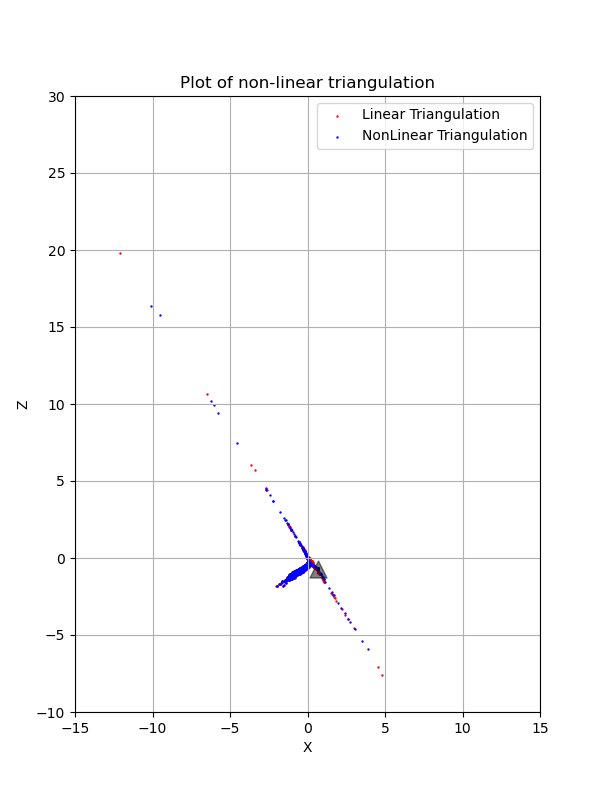
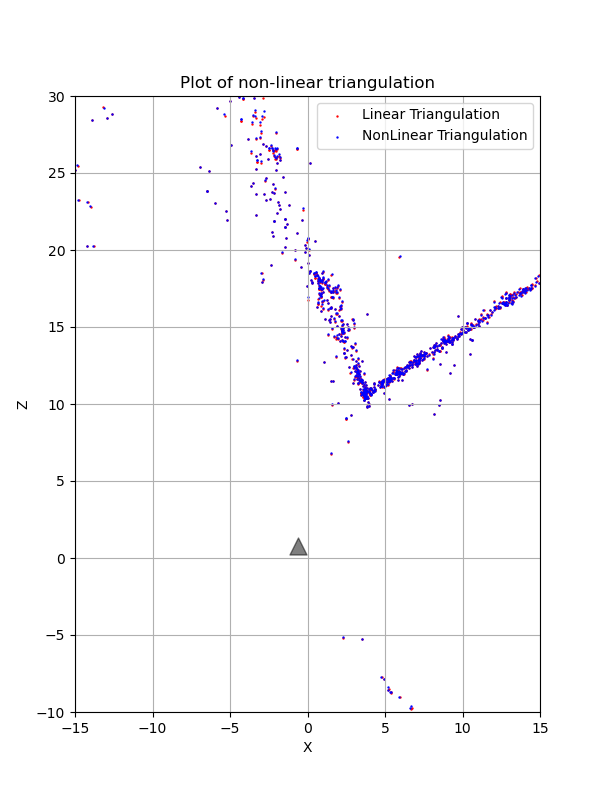
Update ParseData.py

diff --git a/Wrapper.py b/Wrapper.py
@@ -1,9 +1,11 @@
 import argparse
 import cv2
 import numpy as np
+from tqdm import tqdm
 
-from Utils.ParseData import ReadCalbMatrix, ParseMatches, LoadImages, FindCommonPoints
+from Utils.ParseData import ReadCalbMatrix, ParseMatches, LoadImages, LoadData, FindCommonPoints
 from Utils.GetInliersRANSAC import GetInliersRANSAC
+from Utils.EstimateFundamentalMatrix import ComputeFundamentalMatrix
 from Utils.EssentialMatrixFromFundamentalMatrix import EssentialMatrixFromFundamentalMatrix
 from Utils.ExtractCameraPose import ExtractCameraPose
 from Utils.DisambiguateCameraPose import DisambiguateCamPoseAndTriangulate
@@ -22,23 +24,53 @@ def main():
     Args = Parser.parse_args()
     DataPath = Args.DataPath
     CalibPath = Args.CalibPath
+    NumImages = 6
 
     # Read Calibration Matrix K, correspondences and images
     K = ReadCalbMatrix(CalibPath)
-    matches = ParseMatches(DataPath, NumImages=6)
-    Images = LoadImages(DataPath, NumImages=6)
+    Matches = ParseMatches(DataPath, NumImages=NumImages)
+    x_coords, y_coords, feature_indices = LoadData(DataPath, NumImages=NumImages)
+    Images = LoadImages(DataPath, NumImages=NumImages)
 
-    #################################
-    ##### Only for image 1 and 2 ####
-    #################################
+    ####### Rejecting outliers for ######
+    # ##### all possible image pairs ####
+    # ###################################
+    print('Computing Fundamental Matrix...')
+    inlier_ids = np.zeros_like(feature_indices)
+    f_matrix, final_inlier_ids = None, None
+    for i in tqdm(range(NumImages-1)):
+        for j in range(i+1, NumImages):
+            common_ids = np.where(feature_indices[:,i] & feature_indices[:,j])
+            src_coords = np.concatenate((x_coords[common_ids, i].reshape((-1,1)), 
+                                        y_coords[common_ids, i].reshape((-1,1))), axis=1)
+            targ_coords = np.concatenate((x_coords[common_ids, j].reshape((-1,1)), 
+                                        y_coords[common_ids, j].reshape((-1,1))), axis=1)
+            all_matches = common_ids
+            common_ids = np.array(common_ids).reshape(-1)
+            
+            if len(common_ids) > 8:
+                Matches = np.concatenate((src_coords, targ_coords), axis=1)
+                f_matrix, inliers = GetInliersRANSAC(Matches)
+                final_inlier_ids = all_matches[0][inliers]
+                inlier_ids[final_inlier_ids, i] = 1
+                inlier_ids[final_inlier_ids, j] = 1
+                print(f'{len(all_matches[0])} matches and {len(final_inlier_ids)} inliers between image {i} and image {j}')
+
+    # #################################
+    # ##### Only for image 1 and 2 ####
+    # #################################
 
     img1, img2 = Images[0:2]
     
     # Compute Fundamental matrix by RANSAC
-    print('Computing Fundamental Matrix...')
-    F, IdxInliers = GetInliersRANSAC(matches[0]['1_2'], K)
-
-    PlotInliers(img1, img2, matches[0]['1_2'], IdxInliers)
+    common_ids = np.where(inlier_ids[:,0] & inlier_ids[:,1])
+    src_coords = np.concatenate((x_coords[common_ids, 0].reshape((-1,1)), 
+                                y_coords[common_ids, 0].reshape((-1,1))), axis=1)
+    targ_coords = np.concatenate((x_coords[common_ids, 1].reshape((-1,1)), 
+                                y_coords[common_ids, 1].reshape((-1,1))), axis=1)
+    Matches = np.concatenate((src_coords, targ_coords), axis=1)
+    F = ComputeFundamentalMatrix(Matches)
+    PlotInliers(img1, img2, Matches)
 
     # Compute Essentail matrix from Fundamental matrix
     print('\nComputing Essentail Matrix...')
@@ -50,30 +82,30 @@ def main():
 
     # Find unique camera pose using linear triangulation
     print('\nFinding best camera pose...')
-    Points3D, R_set, C_set = DisambiguateCamPoseAndTriangulate(Pts1=matches[0]['1_2'][IdxInliers,3:5], 
-                                      Pts2=matches[0]['1_2'][IdxInliers,5:7],
+    Points3D, R_set, C_set = DisambiguateCamPoseAndTriangulate(Pts1=src_coords, 
+                                      Pts2=targ_coords,
                                       CameraPoses=CameraPoses, K=K)
     
-    # Minimize reprojected error by nonlinear triangulation
+    # # Minimize reprojected error by nonlinear triangulation
     print('\nMinimize the reprojection error...')
-    Optim_Point3D = NonlinearTriangulation(Pts1=matches[0]['1_2'][IdxInliers,3:5], 
-                                      Pts2=matches[0]['1_2'][IdxInliers,5:7],
+    Optim_Point3D = NonlinearTriangulation(Pts1=src_coords, 
+                                      Pts2=targ_coords,
                                       Pts3D=Points3D, R2=R_set, 
                                       C2=C_set, K=K)
 
     PlotNonTriangulation(linear_pts=Points3D, non_linear_pts=Optim_Point3D, C=C_set)
 
-    # Inlier feature points in image 1
-    src_pts = matches[0]['1_2'][IdxInliers, 3:5]
-    for i in range(3, 7):
-        # Get Inliers in image i and indices
-        key = '1_' + str(i)
-        if key not in matches[0]:
-            continue
-        print('key:', key)
-        # Find common 2D and 3D points in the target image
-        _, src_3D, target = FindCommonPoints(src_pts, target_pts=matches[0][key], Optim_Point3D=Optim_Point3D)
-        R_new, C_new = PnPRANSAC(Points3D=src_3D, Points2D=target, K=K)
+    # # Inlier feature points in image 1
+    # src_pts = matches[0]['1_2'][IdxInliers, 3:5]
+    # for i in range(3, 7):
+    #     # Get Inliers in image i and indices
+    #     key = '1_' + str(i)
+    #     if key not in matches[0]:
+    #         continue
+    #     print('key:', key)
+    #     # Find common 2D and 3D points in the target image
+    #     _, src_3D, target = FindCommonPoints(src_pts, target_pts=matches[0][key], Optim_Point3D=Optim_Point3D)
+    #     R_new, C_new = PnPRANSAC(Points3D=src_3D, Points2D=target, K=K)
 
     # print("\n#---------------- Fundamental Matrix ----------------#")
     # print(F)

diff --git a/Utils/ParseData.py b/Utils/ParseData.py
@@ -20,6 +20,52 @@ def LoadImages(path, NumImages):
         Images.append(image)
     return Images
 
+def LoadData(path, NumImages=6):
+    ListMatches = []
+    x_coords = []
+    y_coords = []
+    coord_flags = []
+
+    for FileNum in range(1, NumImages):
+        data_name = 'matching'+str(FileNum)+'.txt'
+        file_path = os.path.join(path, data_name)
+
+        with open (file_path, 'r') as matches_file:
+            correspondences = matches_file.readlines()
+        correspondences = [x.split() for x in correspondences[1:]]
+        
+        for row in correspondences:
+            NumMatch = int(row[0]) # Number of Matching Points
+            curr_x, curr_y= row[4:6] # x_y coordinate of source image
+            x_arr = np.zeros((1, NumImages))
+            y_arr = np.zeros((1, NumImages))
+            flags_arr = np.zeros((1, NumImages), dtype=int)
+
+            x_arr[0][FileNum-1] = curr_x
+            y_arr[0][FileNum-1] = curr_y
+            flags_arr[0][FileNum-1] = 1
+
+            step = 1
+            for _ in range(NumMatch-1):
+                image_id = int(row[5+step])
+                targ_x = row[6+step]
+                targ_y = row[7+step]
+
+                x_arr[0][image_id-1] = targ_x
+                y_arr[0][image_id-1] = targ_y
+                flags_arr[0][image_id-1] = 1
+                step += 3
+
+            x_coords.append(x_arr)
+            y_coords.append(y_arr)
+            coord_flags.append(flags_arr)
+
+    x_coords = np.array(x_coords).reshape(-1, NumImages)
+    y_coords = np.array(y_coords).reshape(-1, NumImages)
+    coord_flags = np.array(coord_flags).reshape(-1, NumImages)
+
+    return x_coords, y_coords, coord_flags
+
 def ParseMatches(path, NumImages=6):
     ListMatches = []
     for FileNum in range(1, NumImages):

diff --git a/Utils/PnPRANSAC.py b/Utils/PnPRANSAC.py
@@ -5,7 +5,6 @@ def LinearPnP(X, x, K):
     x_norm = np.dot(np.linalg.inv(K), x.T).T # Normalized by K-^1 x
 
     A = []
-    final_R, final_C = None, None
     for i in range(X.shape[0]):
         z = np.zeros((1,4))
         X_ = X[i,:].reshape((1,4))
@@ -31,19 +30,15 @@ def LinearPnP(X, x, K):
         R, t = P[:, :3], P[:, 3] # R and t matrix from projection matrix P
         
         # Corrected Rotation matrix
-        U, _,  Vtr = np.linalg.svd(R)
+        U, S, Vtr = np.linalg.svd(R)
         R = np.dot(U, Vtr)
 
-        C = -np.dot(np.linalg.inv(R), t)
-
         if np.linalg.det(R) < 0:
-            final_C = -C
-            final_R = -R
-        else:
-            final_C = C
-            final_R = R
+            R = -R
 
-        return final_R, final_C
+        C = -np.dot(R.T, t)
+
+        return R, C
     
 def ProjectionError(R, C, x, X, K, threshold):
     I = np.eye(3)
@@ -60,11 +55,7 @@ def ProjectionError(R, C, x, X, K, threshold):
         u_reproj = np.dot(Pr1, X_) / np.dot(Pr3, X_)
         v_reproj = np.dot(Pr2, X_) / np.dot(Pr3, X_)
 
-        error = np.sqrt(np.square(u-u_reproj) + np.square(v-v_reproj))
-        # x_proj = np.concatenate(([u_reproj], [v_reproj]), axis=0)
-        # x_ = np.concatenate(([u], [v]), axis=0)
-        # error = np.linalg.norm(x_ - x_proj)
-
+        error = np.sqrt(np.square(u - u_reproj) + np.square(v - v_reproj))
         if error < threshold:
             S.append(i)
     

diff --git a/Utils/Utils.py b/Utils/Utils.py
@@ -2,21 +2,21 @@ import numpy as np
 import cv2
 import matplotlib.pyplot as plt
 
-def PlotInliers(img1, img2, matches, idx):
+def PlotInliers(img1, img2, matches):
     """
     Draw matching features between 2 images
     """
     MatchImage = np.concatenate((img1, img2), axis=1)
 
     for i, pts in enumerate(matches):
-        if i in idx:
-            x1, y1 = int(pts[3]), int(pts[4])
-            x2, y2 = int(int(pts[5])+img1.shape[1]), int(pts[6]) 
-            cv2.line(MatchImage,(x1,y1),(x2,y2),(0,255,0),1)
-        else:
-            x1, y1 = int(pts[3]), int(pts[4])
-            x2, y2 = int(int(pts[5])+img1.shape[1]), int(pts[6]) 
-            cv2.line(MatchImage,(x1,y1),(x2,y2),(0,0,255),1)
+        # if i in idx:
+        x1, y1 = int(pts[0]), int(pts[1])
+        x2, y2 = int(int(pts[2])+img1.shape[1]), int(pts[3]) 
+        cv2.line(MatchImage,(x1,y1),(x2,y2),(0,255,0),1)
+        # else:
+        #     x1, y1 = int(pts[3]), int(pts[4])
+        #     x2, y2 = int(int(pts[5])+img1.shape[1]), int(pts[6]) 
+        #     cv2.line(MatchImage,(x1,y1),(x2,y2),(0,0,255),1)
 
     MatchImage = cv2.resize(MatchImage, (0, 0), fx = 0.5, fy = 0.5)
     cv2.imwrite('./SaveFig/InliersMatches.jpg', MatchImage)

diff --git a/Utils/GetInliersRANSAC.py b/Utils/GetInliersRANSAC.py
@@ -8,7 +8,7 @@ def points_err(matches, F, threshold):
     IndexInliers = []
 
     for i, pt_pair in enumerate(matches):
-        x1,y1,x2,y2 = pt_pair[3:]
+        x1,y1,x2,y2 = pt_pair#[3:]
         p1 = np.array([x1,y1,1])
         p2 = np.array([x2,y2,1])
 
@@ -20,7 +20,7 @@ def points_err(matches, F, threshold):
 
     return NumInliers, IndexInliers
 
-def GetInliersRANSAC(Matches, K, threshold=0.02):
+def GetInliersRANSAC(Matches, threshold=0.02):
     max_inlier_count = 0
     MaxIteration = 5000
     iter_count = 0

diff --git a/Utils/DisambiguateCameraPose.py b/Utils/DisambiguateCameraPose.py
@@ -30,7 +30,6 @@ def DisambiguateCamPoseAndTriangulate(Pts1, Pts2, CameraPoses, K):
             Unique_T = C2
             Unique_3DPoints = Points3D
             BestPoseNum = i+1
-            # print(BestPoseNum, inlier_count, Positive_Z.sum(), check)
 
     # Plot all 3D points and camera poses
     PlotInitialTriangulation(CameraPoses=CameraPoses, AllPoints=AllPoints)

diff --git a/Utils/EstimateFundamentalMatrix.py b/Utils/EstimateFundamentalMatrix.py
@@ -3,7 +3,7 @@ import numpy as np
 def ComputeFundamentalMatrix(RandMatches):
     A = []
     for i in range(RandMatches.shape[0]):
-        x1, y1, x2, y2 = RandMatches[i, 3:]
+        x1, y1, x2, y2 = RandMatches[i,:]#[i, 3:]
         A.append([x2*x1, x2*y1, x2, y2*x1, y2*y1, y2, x1, y1, 1])
     A = np.array(A)
     
